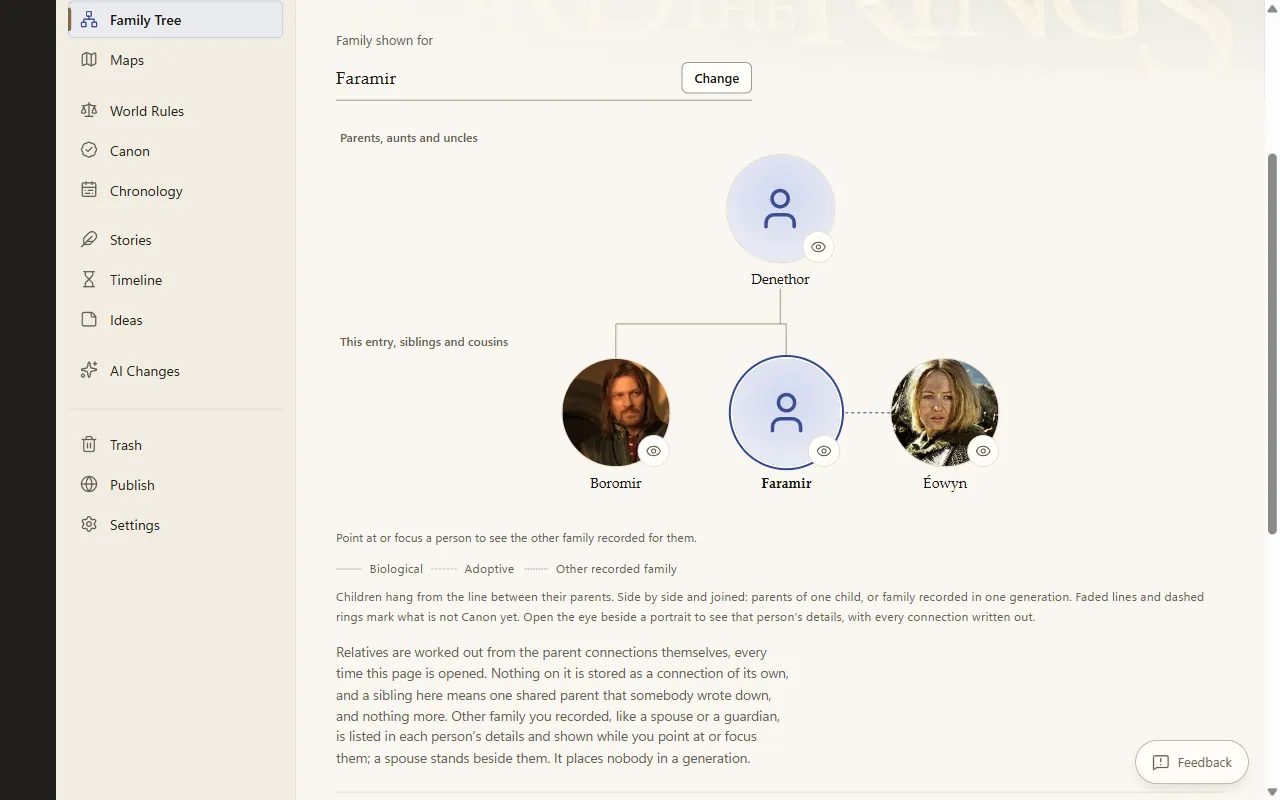
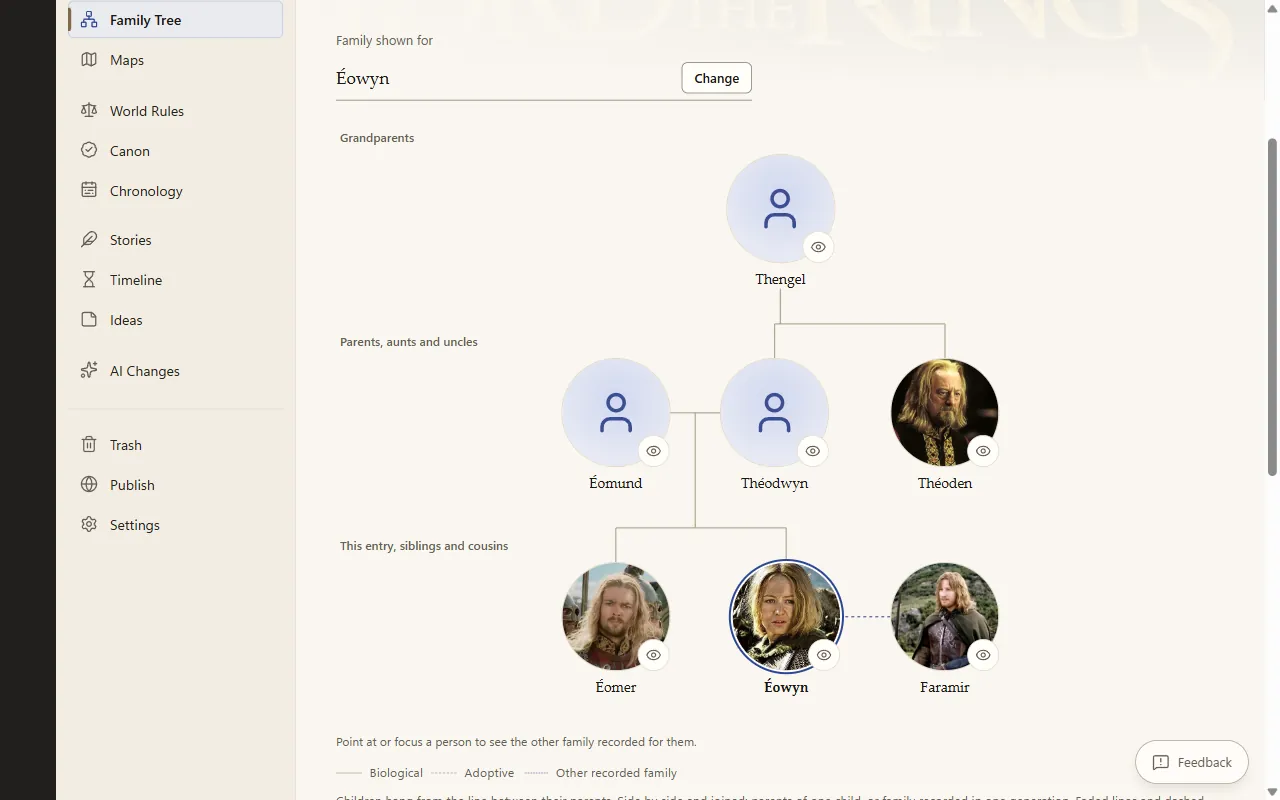
[FEAT] Demo page: family tree shot shows the Rohan line
Eowyn's tree now spans three generations, from Thengel through Eomund,
Theodwyn and Theoden to Eomer, Eowyn and Faramir.

diff --git a/site/alpha/public/index.html b/site/alpha/public/index.html
@@ -118,7 +118,7 @@
         <article class="index__page" id="family-trees" aria-labelledby="family-trees-title">
           <h3 id="family-trees-title">Family trees</h3>
           <p class="index__hook">Record who's related. The tree draws itself.</p>
-          <img class="index__shot" src="/assets/shots/family-tree.webp?v=20261101" alt="Faramir's family tree: Denethor above, Boromir beside him, Eowyn joined by marriage." width="1280" height="800" loading="lazy" decoding="async" />
+          <img class="index__shot" src="/assets/shots/family-tree.webp?v=20261101b" alt="Eowyn's family tree over three generations: Thengel, her parents and her uncle Theoden, then Eomer, Eowyn and Faramir." width="1280" height="800" loading="lazy" decoding="async" />
           <p>Record parents and partners, and the tree works out the rest: siblings, aunts and uncles, cousins, nieces and nephews, across as many generations as you have. Other family you record, such as a guardian, shows as a labelled line.</p>
           <p class="index__why">Big families get confusing fast. The tree shows it at a glance and stays right as you change things.</p>
         </article>
